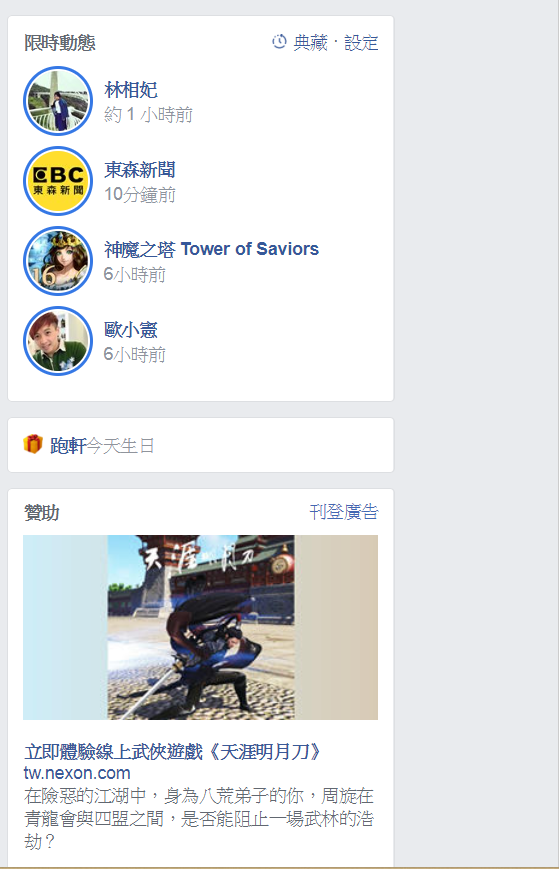
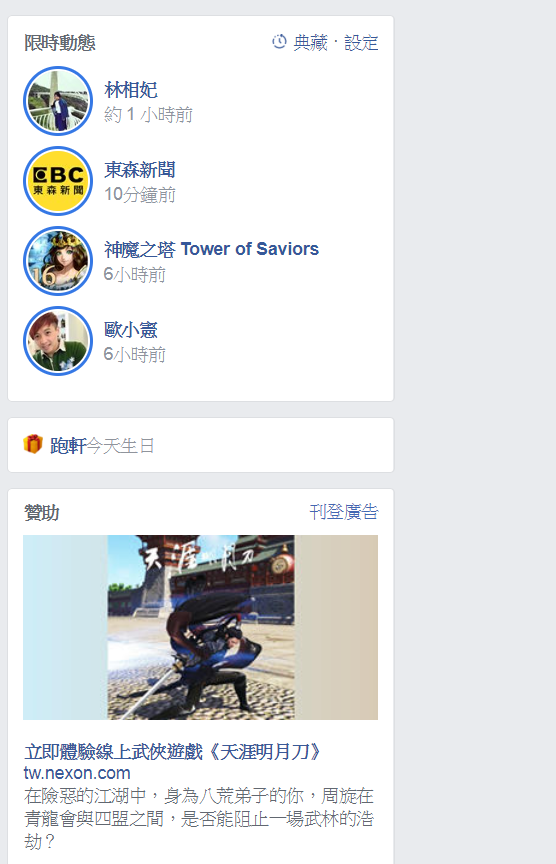
完成meanuright

diff --git a/index.html b/index.html
@@ -27,7 +27,9 @@
             <img src="assets\main4.PNG">
             <img src="assets\main5.PNG">
         </div>
-
+        <div id="meanuright">
+            <img src="assets\meanuright.PNG">
+        </div>
     </div>
 
 </body>

diff --git a/css/style.css b/css/style.css
@@ -30,5 +30,10 @@ img {
 }
 .main img {
     width: 520px;
-    margin: -5px 150px 0px 0px; 
+    margin: -5px 0px 0px 0px; 
+}
+
+#meanuright {
+    width: 450px;
+    margin: -2978px 150px 0px 830px;
 }
